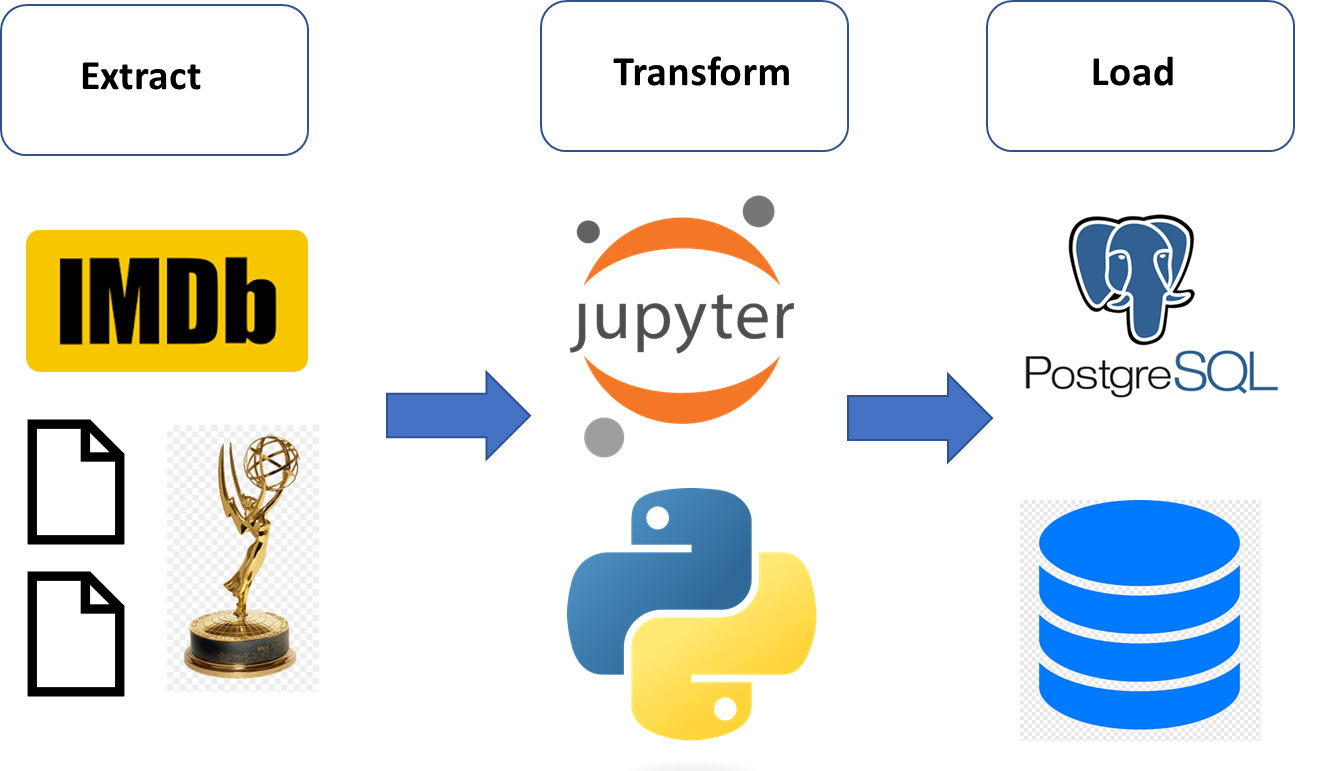
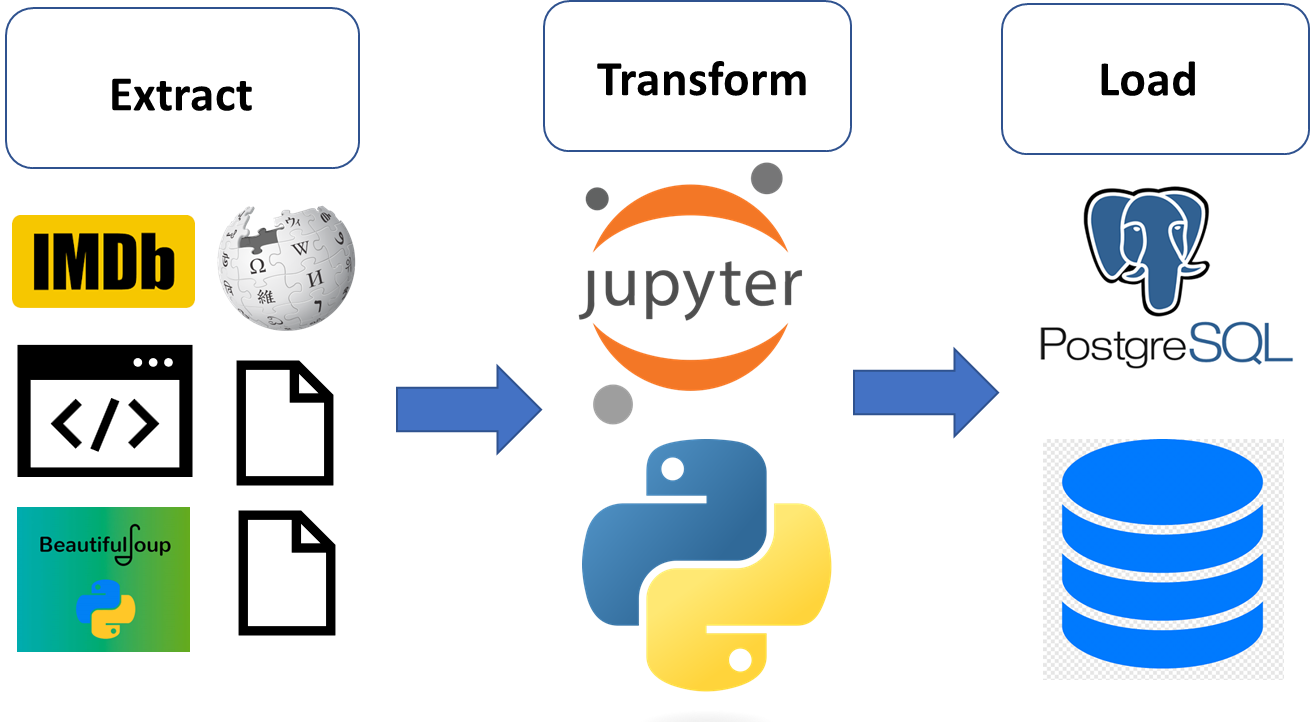
Edited read me images

diff --git a/README.md b/README.md
@@ -1,6 +1,6 @@
 # ETL_IMDB
 
-For this project we created relational database for top 250 IMDB TV series and  emmy awards for these series if any for the years 2010-2022.We used sql alchemy for object relational mapping and creating queries using Python. This was followed by creating app route using [flask](https://github.com/joshi-swetam/ETL_IMDB/blob/main/Load/SQLAlchemy%20and%20Flask/app.py)
+For this project we created relational database for top 250 IMDB TV series and  emmy awards for these series if any for the years 2010-2022.Python package Beautiful Soup was used for web scraping.We used sql alchemy for object relational mapping and creating queries using Python. This was followed by creating app route using [flask](https://github.com/joshi-swetam/ETL_IMDB/blob/main/Load/SQLAlchemy%20and%20Flask/app.py)
 
 
 
